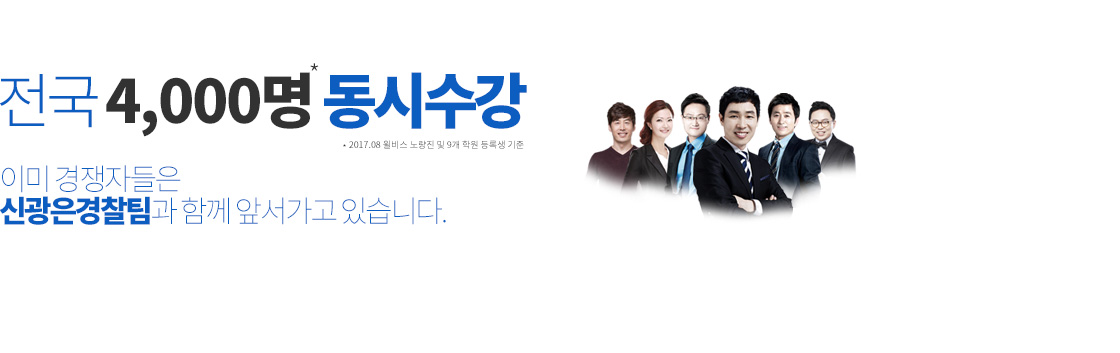
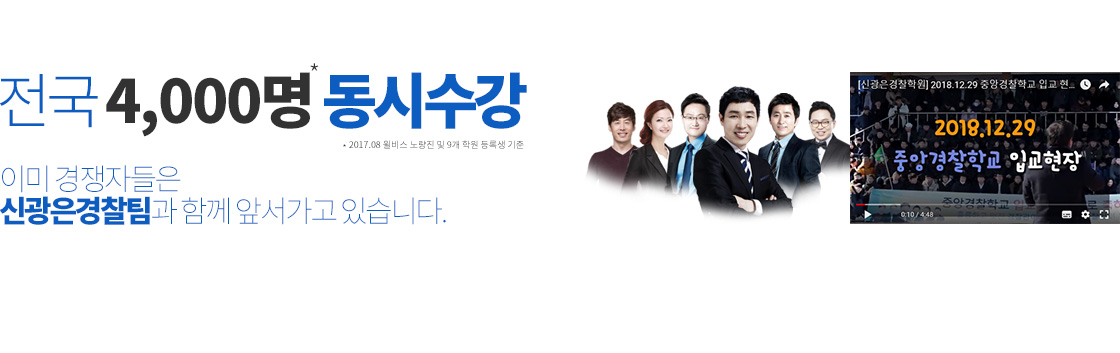
경찰 온라인 메인

Changed region(s): [[0.75, 0.187, 1.0, 0.6544]]

diff --git a/views/willbes/pc/site/main_2001_3001.blade.php b/views/willbes/pc/site/main_2001_3001.blade.php
@@ -8,8 +8,10 @@
 
         <div class="Section MainVisual">
             <div class="widthAuto">
-                <iframe src="https://www.youtube.com/embed/lrZxQV21DE8?rel=0&modestbranding=1&showinfo=1&controls=2" frameborder="0" allowfullscreen=""></iframe>
-                <img src="{{ img_url('cop/visual/visual_190213.jpg') }}" alt="전국 4,000명 동시수강">
+                <!--iframe src="https://www.youtube.com/embed/lrZxQV21DE8?rel=0&modestbranding=1&showinfo=1&controls=2" frameborder="0" allowfullscreen=""></iframe-->
+                <a href="{{ site_url('/promotion/index/cate/3001/code/1019') }}" target="_blank">
+                    <img src="{{ img_url('cop/visual/visual_190213.jpg') }}" alt="전국 4,000명 동시수강">
+                </a>
             </div>
         </div>
 
